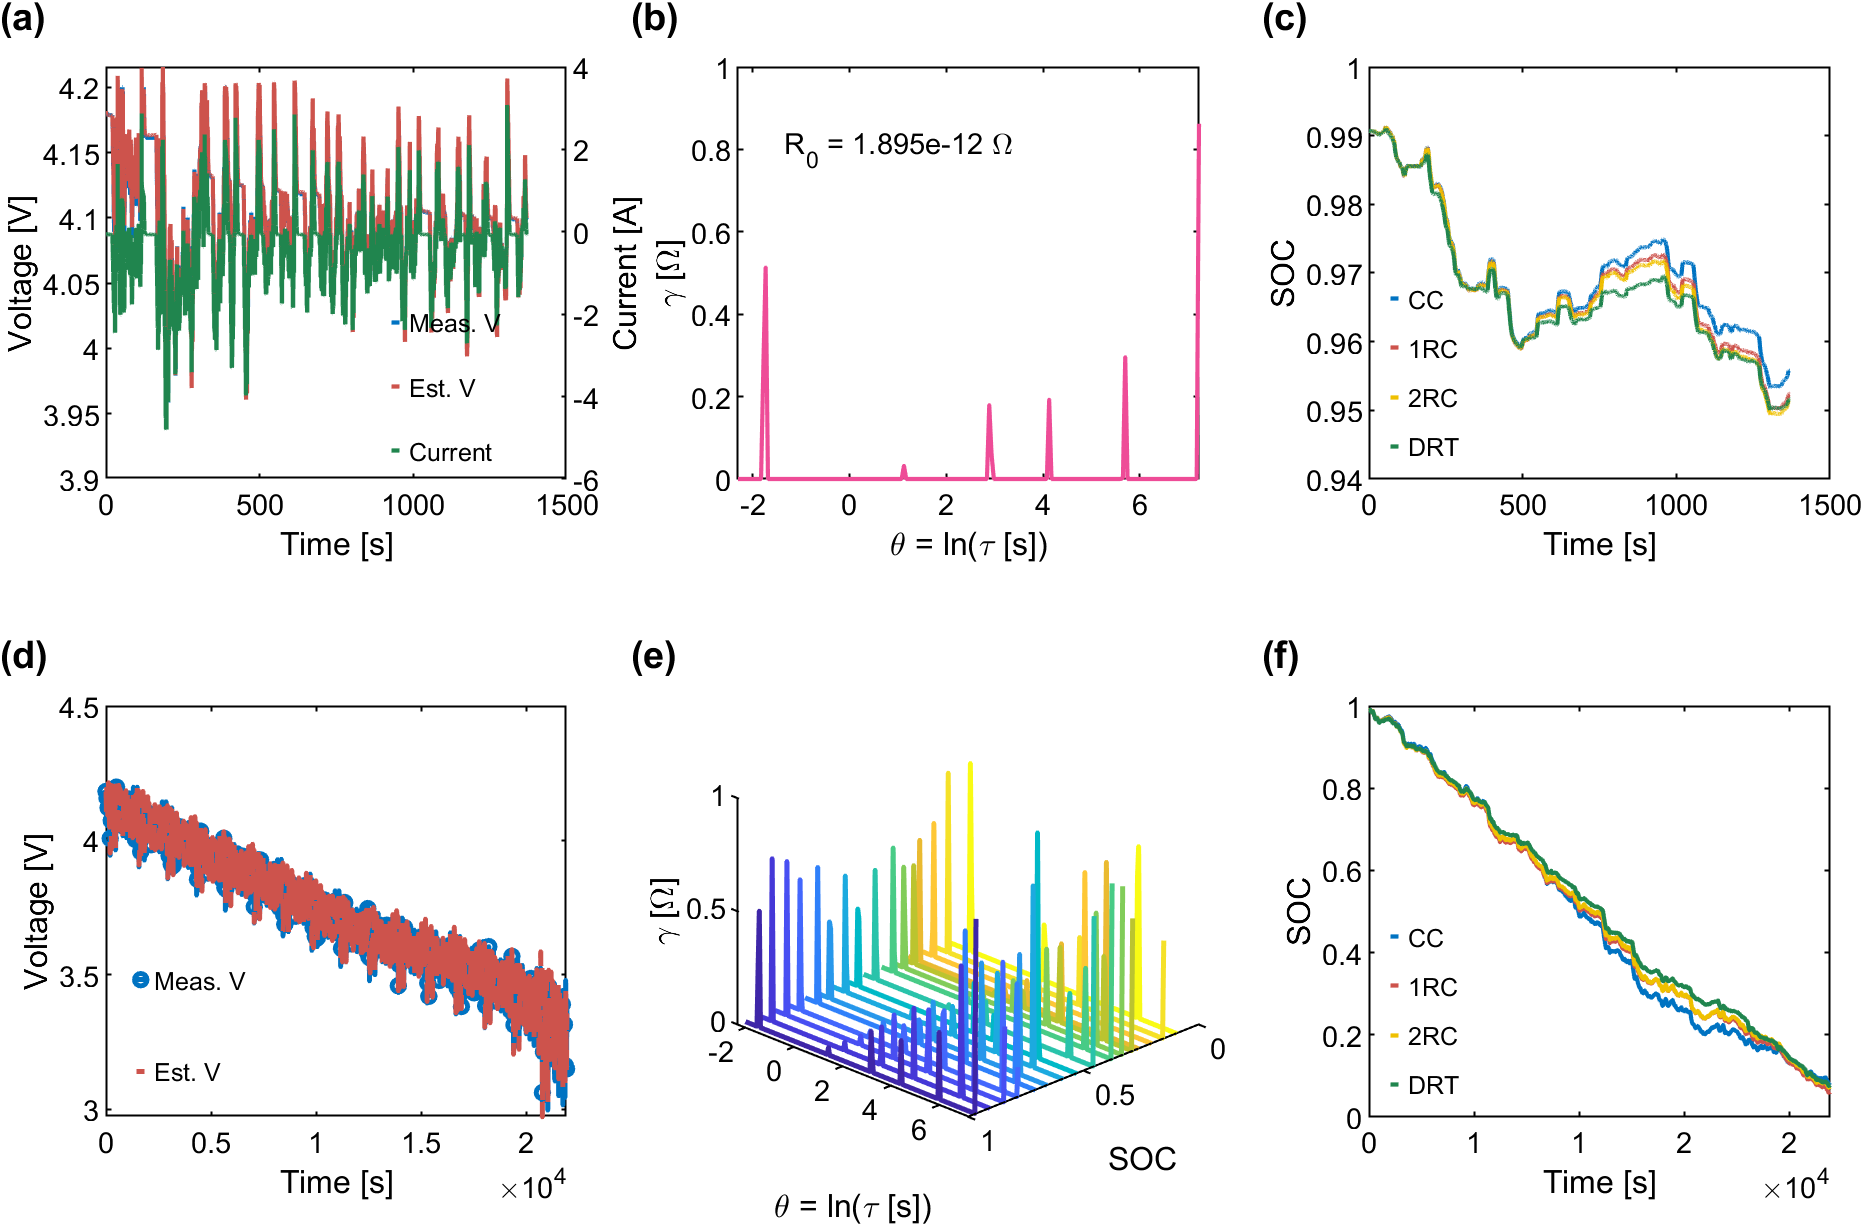
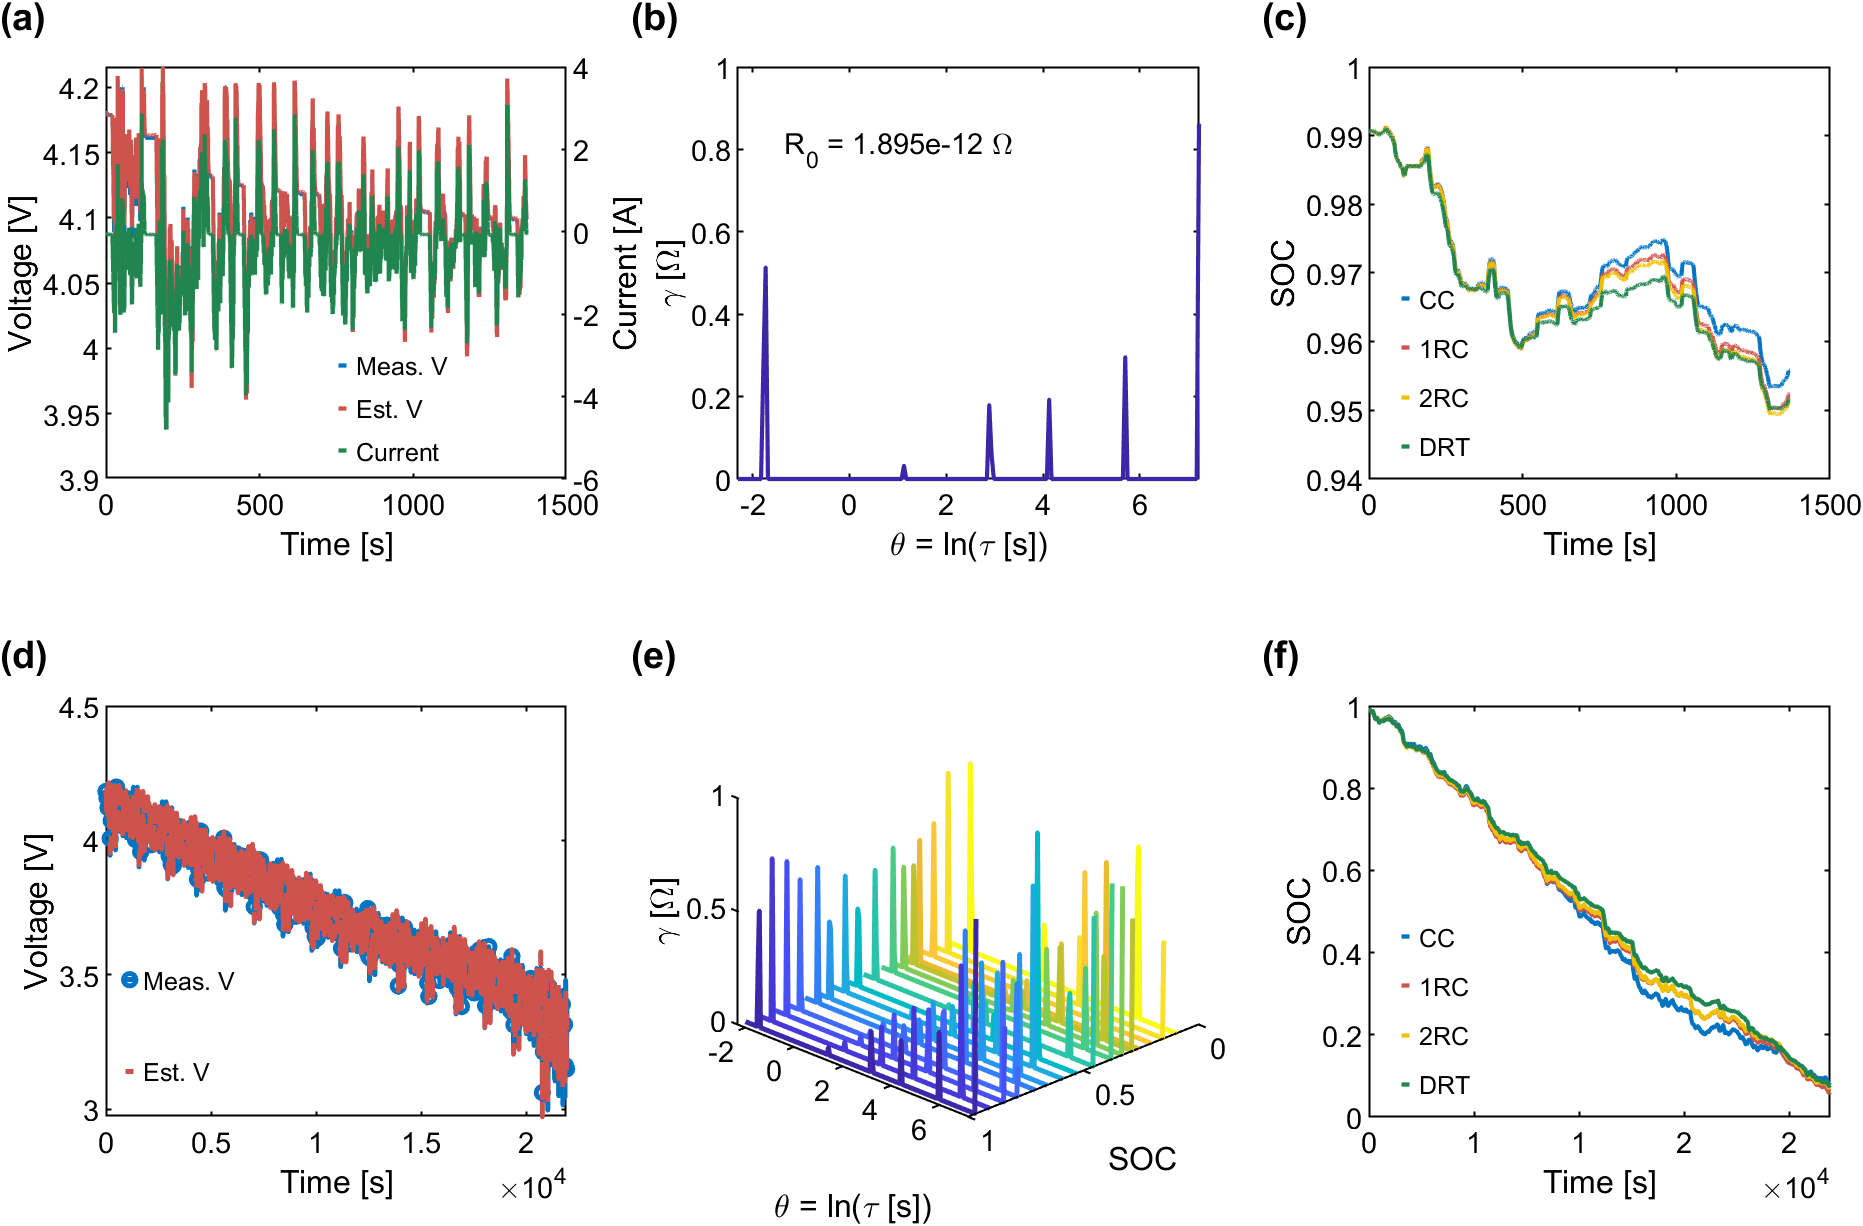
.
.

diff --git a/Wisconsin/Run_FIG2.m b/Wisconsin/Run_FIG2.m
@@ -1,5 +1,5 @@
 %%%%%%%%%%%%%%%%%%%%%%%%%%%%%%%%%%%%%%%%%%%%%%%%%%%%%%%%%%%%%%%
-% Run_FIG2.m - Example code with (d) marker+line style & parula in (e)
+% Run_FIG2_modified.m - (b)는 Parula 첫 번째 색상, (a)는 범례 상하공백 축소
 %%%%%%%%%%%%%%%%%%%%%%%%%%%%%%%%%%%%%%%%%%%%%%%%%%%%%%%%%%%%%%%
 
 clc; clear; close all;
@@ -22,7 +22,7 @@ lineWidthEst  = 1;
 lineWidthCurr = 1;
 lineWidthSOC  = 1;
 
-% [C] 색상 팔레트(기본)w
+% [C] 색상 팔레트(기본)
 p_colors = [
     0.00000, 0.45098, 0.76078;  % #1 (Blue)
     0.93725, 0.75294, 0.00000;  % #2 (Yellow)
@@ -57,15 +57,16 @@ R0_xOffset = 0.1;
 R0_yOffset = 0.2;   
 
 % [F] Legend 'Position' 설정
-legendPosA = [0.23 0.58 0.10 0.15];
-legendPosB = [0.40 0.75 0.10 0.10];
-legendPosC = [0.69 0.59 0.10 0.15];
-legendPosD = [0.11 0.13 0.10 0.15];
-legendPosE = [0.52 0.59 0.10 0.15];
-legendPosF = [0.69 0.14 0.10 0.15];
+% (a) 부분 범례 위치/크기를 살짝 조정하여 상하공백 축소
+legendPosA = [0.23 0.59 0.05 0.10]; % <-- 높이 0.10으로 변경 (기존 0.15)
+legendPosB = [0.40 0.75 0.05 0.10];
+legendPosC = [0.72 0.59 0.05 0.15];
+legendPosD = [0.13 0.13 0.05 0.15];
+legendPosE = [0.52 0.59 0.05 0.15];
+legendPosF = [0.72 0.14 0.05 0.15];
 
-% [G] Legend 선 길이 (ItemTokenSize)
-legendItemTokenSize = [2, 3];
+% [G] Legend 선 길이 (ItemTokenSize) - 범례 내부 간격
+legendItemTokenSize = [2, 2];  % <-- [2, 2]로 축소 (기존 [2,3])
 
 %% ========== (1) Figure 생성 ==========
 figure('Units','centimeters','Position',[3 3 figWidth figHeight]);
@@ -86,8 +87,7 @@ pos(4,:) = [leftMargin,                       row2_y, subplotWidth, subplotHeigh
 pos(5,:) = [leftMargin+1*(subplotWidth+gapX), row2_y, subplotWidth, subplotHeight];
 pos(6,:) = [leftMargin+2*(subplotWidth+gapX), row2_y, subplotWidth, subplotHeight];
 
-%% (2) 예시 데이터 불러오기
-% 실제 환경에 맞게 경로 수정하세요
+%% (2) 예시 데이터 불러오기 (사용자 환경에 맞게 경로 수정 필요)
 load('G:\공유 드라이브\Battery Software Lab\Projects\DRT\Wisconsin_DRT\udds_data_soc_results.mat',...
      'udds_data_soc_results');
 num_trips = length(udds_data_soc_results);
@@ -120,8 +120,10 @@ yyaxis left;  set(gca, 'YColor','k','XColor','k','FontSize',axisTickFontSize);
 yyaxis right; set(gca, 'YColor','k','XColor','k','FontSize',axisTickFontSize);
 
 leg_a = legend([p1 p2 p3]);
-set(leg_a, 'Position', legendPosA, 'FontSize', legendFontSize, ...
-           'Box','off', 'ItemTokenSize', [2,3]); % 범례 항목 간 간격 줄이기
+set(leg_a, 'Position', legendPosA, ...
+           'FontSize', legendFontSize, ...
+           'Box','off', ...
+           'ItemTokenSize', legendItemTokenSize); 
 
 annotation('textbox', ...
    [pos(1,1)+annotationOffsetX, pos(1,2)+pos(1,4)*annotationOffsetY, ...
@@ -130,15 +132,18 @@ annotation('textbox', ...
    'FontWeight','bold','LineStyle','none');
 
 %%%%%%%%%%%%%%%%%%%%%%%%%%%%%%%%%%%%%%%%%%%%%%%%%%%%
-%% (b) Trip 1 DRT
+%% (b) Trip 1 DRT (색상 Parula 첫 번째로 지정)
 %%%%%%%%%%%%%%%%%%%%%%%%%%%%%%%%%%%%%%%%%%%%%%%%%%%%
 subplot('Position', pos(2,:));
 theta_1 = udds_data_soc_results(trip_idx).theta_discrete;
 gamma_1 = udds_data_soc_results(trip_idx).gamma_est;
 R0_1    = udds_data_soc_results(trip_idx).R0_est;
 
+% Parula 팔레트에서 첫 번째 색상 추출
+cmap_b = parula(64);
 plot(theta_1, gamma_1, 'LineWidth', lineWidthMeas, ...
-    'Color', p_colors(8,:), 'LineStyle','-');
+    'Color', cmap_b(1,:), ...  % Parula 첫 번째 색상
+    'LineStyle','-');
 hold on;
 xlabel('\theta = ln(\tau [s])', 'FontSize', axisLabelFontSize);
 ylabel('\gamma [\Omega]',       'FontSize', axisLabelFontSize);
@@ -181,8 +186,10 @@ xlabel('Time [s]', 'FontSize', axisLabelFontSize);
 ylabel('SOC',      'FontSize', axisLabelFontSize);
 
 leg_c = legend([p1c p2c p3c p4c]);
-set(leg_c, 'Position', legendPosC, 'FontSize', legendFontSize,...
-           'Box','off', 'ItemTokenSize', legendItemTokenSize);
+set(leg_c, 'Position', legendPosC, ...
+           'FontSize', legendFontSize,...
+           'Box','off', ...
+           'ItemTokenSize', legendItemTokenSize);
 
 set(gca, 'FontSize', axisTickFontSize, 'YColor','k','XColor','k');
 
@@ -212,7 +219,7 @@ p1d = plot(full_t, full_V, ...
     'LineWidth', 1.2, ...
     'LineStyle','-', ...
     'Marker','o','MarkerSize',3, ...
-    'MarkerIndices', 1:500:length(full_t), ... % 마커 간격 조절
+    'MarkerIndices', 1:500:length(full_t), ... % 마커 간격
     'DisplayName','Meas. V');
 hold on;
 
@@ -228,8 +235,10 @@ xlabel('Time [s]',    'FontSize', axisLabelFontSize);
 set(gca, 'FontSize', axisTickFontSize, 'YColor','k','XColor','k');
 
 leg_d = legend([p1d p2d]);
-set(leg_d, 'Position', legendPosD, 'FontSize', legendFontSize,...
-           'Box','off', 'ItemTokenSize', legendItemTokenSize);
+set(leg_d, 'Position', legendPosD, ...
+           'FontSize', legendFontSize,...
+           'Box','off', ...
+           'ItemTokenSize', legendItemTokenSize);
 
 annotation('textbox', ...
    [pos(4,1)+annotationOffsetX, pos(4,2)+pos(4,4)*annotationOffsetY, ...
@@ -267,7 +276,8 @@ xlabel('SOC', 'FontSize', axisLabelFontSize);
 ylabel('\theta = ln(\tau [s])', 'FontSize', axisLabelFontSize);
 zlabel('\gamma [\Omega]',       'FontSize', axisLabelFontSize);
 view(135, 30);
-set(gca, 'FontSize', axisTickFontSize, 'YColor','k','XColor','k','ZColor','k');
+set(gca, 'FontSize', axisTickFontSize, ...
+         'YColor','k','XColor','k','ZColor','k');
 
 annotation('textbox', ...
    [pos(5,1)+annotationOffsetX, pos(5,2)+pos(5,4)*annotationOffsetY, ...
@@ -307,8 +317,10 @@ ylabel('SOC',      'FontSize', axisLabelFontSize);
 xtickformat('%.0f');
 
 leg_f = legend([p1f p2f p3f p4f]);
-set(leg_f, 'Position', legendPosF, 'FontSize', legendFontSize,...
-           'Box','off', 'ItemTokenSize', legendItemTokenSize);
+set(leg_f, 'Position', legendPosF, ...
+           'FontSize', legendFontSize,...
+           'Box','off', ...
+           'ItemTokenSize', legendItemTokenSize);
 
 set(gca, 'FontSize', axisTickFontSize, 'YColor','k','XColor','k');
 
